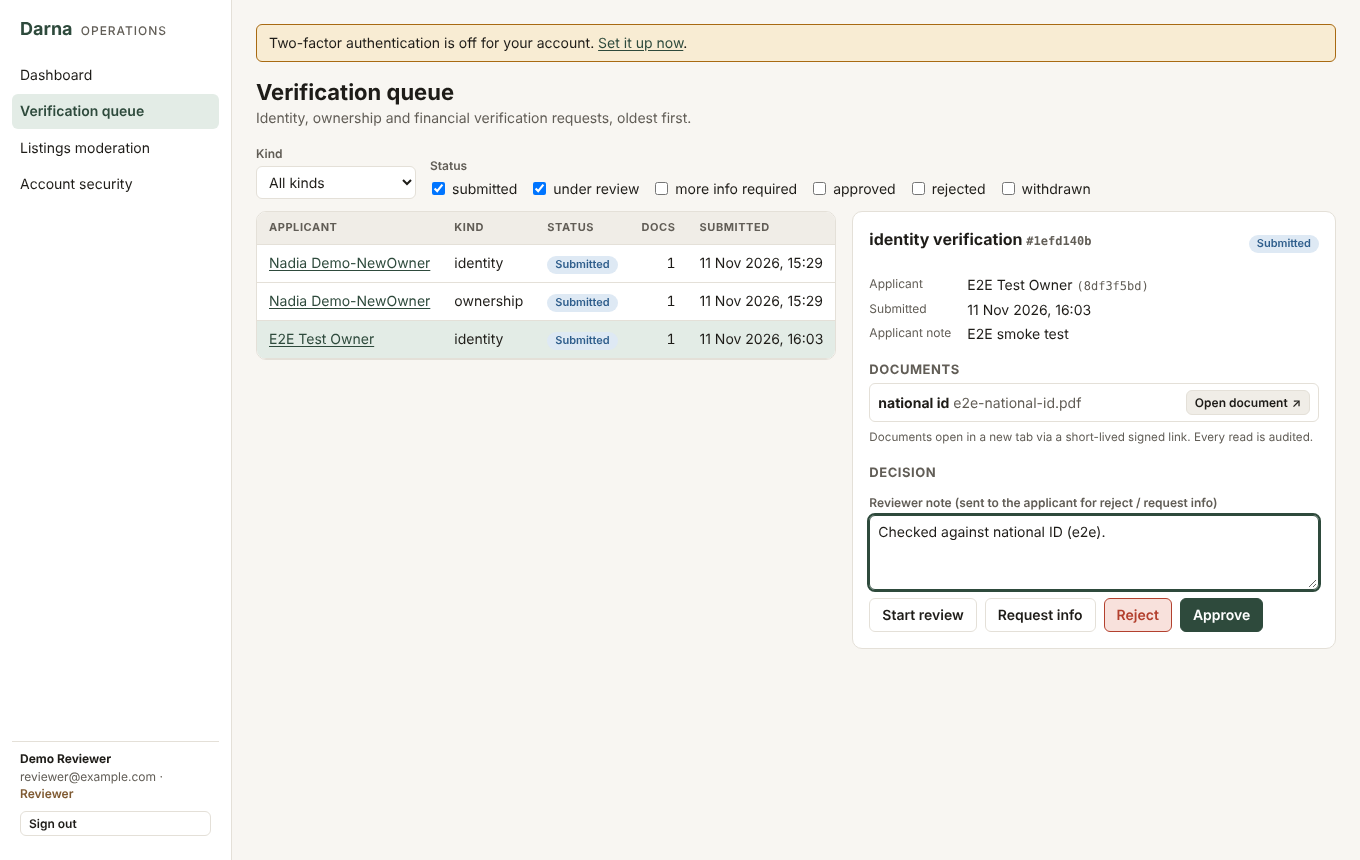
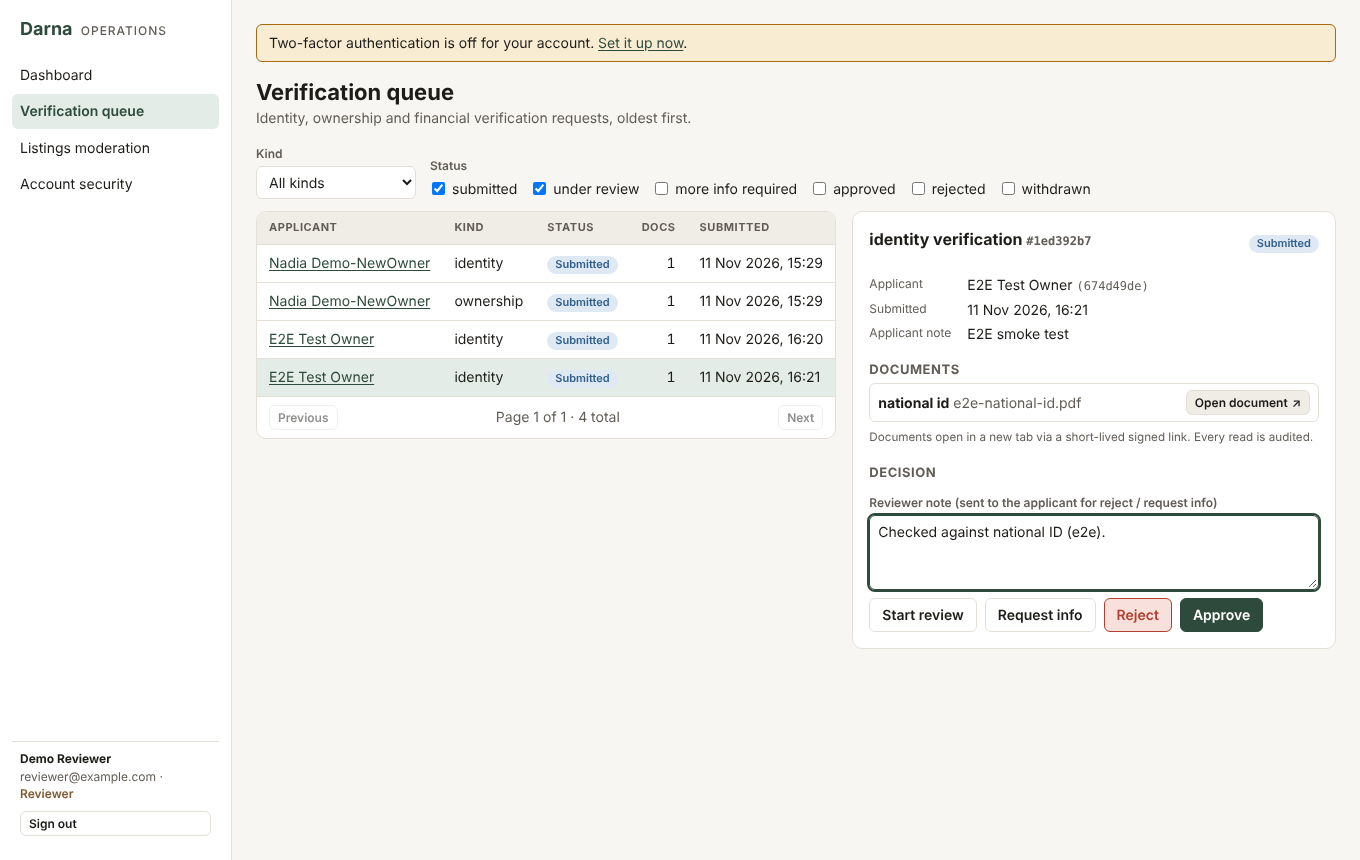
Paginate the verification queue and batch its document/claim loads
GET /admin/verifications now returns Page[QueueItem] (oldest first, page
and page_size up to 100) and loads documents and claims in two queries
instead of two per item. The admin queue gets a pager that resets on
filter changes and steps back when the last item on a page is decided.

Claude-Session: https://claude.ai/code/session_01EGgGCG2r9sSzy7oEG29fDS

diff --git a/apps/admin/src/test/verification.test.tsx b/apps/admin/src/test/verification.test.tsx
@@ -89,10 +89,32 @@ describe("VerificationPanel", () => {
   });
 });
 
+const pageOf = <T,>(items: T[], total = items.length, page = 1) => ({ items, total, page, page_size: 25 });
+
 describe("VerificationQueue (mocked API)", () => {
+  it("pages through the queue and resets to page 1 when filters change", async () => {
+    const api: Partial<AdminApi> = {
+      verifications: vi.fn().mockImplementation(async (q: { page?: number }) =>
+        pageOf([{ ...identityItem, id: `vr-${q.page}`, user_name: `Applicant page ${q.page}` }], 30, q.page)),
+    };
+    render(
+      <ToastProvider>
+        <MockAuthProvider me={reviewer} api={api}>
+          <VerificationQueue />
+        </MockAuthProvider>
+      </ToastProvider>,
+    );
+    expect(await screen.findByRole("button", { name: "Applicant page 1" })).toBeInTheDocument();
+    await userEvent.click(screen.getByRole("button", { name: /next/i }));
+    expect(await screen.findByRole("button", { name: "Applicant page 2" })).toBeInTheDocument();
+    expect(api.verifications).toHaveBeenLastCalledWith(expect.objectContaining({ page: 2, page_size: 25 }));
+    await userEvent.selectOptions(screen.getByLabelText("Kind"), "ownership");
+    await waitFor(() => expect(api.verifications).toHaveBeenLastCalledWith(expect.objectContaining({ kind: "ownership", page: 1 })));
+  });
+
   it("loads the queue, starts a review and refreshes", async () => {
     const api: Partial<AdminApi> = {
-      verifications: vi.fn().mockResolvedValueOnce([identityItem]).mockResolvedValueOnce([{ ...identityItem, status: "under_review" }]),
+      verifications: vi.fn().mockResolvedValueOnce(pageOf([identityItem])).mockResolvedValueOnce(pageOf([{ ...identityItem, status: "under_review" }])),
       decide: vi.fn().mockResolvedValue({ ok: true }),
     };
     render(
@@ -112,7 +134,7 @@ describe("VerificationQueue (mocked API)", () => {
   });
 
   it("shows the empty state and API errors", async () => {
-    const api: Partial<AdminApi> = { verifications: vi.fn().mockResolvedValue([]) };
+    const api: Partial<AdminApi> = { verifications: vi.fn().mockResolvedValue(pageOf([])) };
     render(
       <ToastProvider>
         <MockAuthProvider me={reviewer} api={api}>
@@ -126,7 +148,7 @@ describe("VerificationQueue (mocked API)", () => {
   it("surfaces decision failures with the API error code", async () => {
     const { ApiError } = await import("@darna/api-client");
     const api: Partial<AdminApi> = {
-      verifications: vi.fn().mockResolvedValue([identityItem]),
+      verifications: vi.fn().mockResolvedValue(pageOf([identityItem])),
       decide: vi.fn().mockRejectedValue(new ApiError(409, "self_review", "You cannot review your own submission")),
     };
     render(

diff --git a/apps/admin/src/components/VerificationQueue.tsx b/apps/admin/src/components/VerificationQueue.tsx
@@ -1,7 +1,7 @@
 "use client";
 
-import { useState } from "react";
-import { Badge, DataState, fmtDate, PageHeader } from "./ui";
+import { useEffect, useState } from "react";
+import { Badge, DataState, fmtDate, PageHeader, Pager } from "./ui";
 import { VerificationPanel } from "./VerificationPanel";
 import type { DecisionIn, VerificationKind, VerificationStatus } from "@/lib/adminApi";
 import { useApi } from "@/lib/auth";
@@ -9,6 +9,7 @@ import { useToast } from "@/lib/toast";
 import { useAsync } from "@/lib/useAsync";
 
 const KINDS: VerificationKind[] = ["identity", "ownership", "financial"];
+const PAGE_SIZE = 25;
 const STATUSES: VerificationStatus[] = ["submitted", "under_review", "more_info_required", "approved", "rejected", "withdrawn"];
 
 export function VerificationQueue() {
@@ -17,8 +18,19 @@ export function VerificationQueue() {
   const [kind, setKind] = useState<VerificationKind | "">("");
   const [statuses, setStatuses] = useState<VerificationStatus[]>(["submitted", "under_review"]);
   const [selectedId, setSelectedId] = useState<string | null>(null);
-  const q = useAsync(() => api.verifications({ status: statuses, kind: kind || undefined }), [kind, statuses.join(",")]);
-  const items = q.data ?? [];
+  const [page, setPage] = useState(1);
+  const q = useAsync(
+    () => api.verifications({ status: statuses, kind: kind || undefined, page, page_size: PAGE_SIZE }),
+    [kind, statuses.join(","), page],
+  );
+  const items = q.data?.items ?? [];
+  const total = q.data?.total ?? 0;
+  // New filters start from the first page.
+  useEffect(() => setPage(1), [kind, statuses.join(",")]);
+  // Deciding the last item on the last page leaves it empty: step back.
+  useEffect(() => {
+    if (q.data && page > 1 && q.data.items.length === 0 && total > 0) setPage(Math.ceil(total / PAGE_SIZE));
+  }, [q.data, page, total]);
   const selected = items.find((i) => i.id === selectedId) ?? null;
 
   async function decide(id: string, body: DecisionIn) {
@@ -111,6 +123,7 @@ export function VerificationQueue() {
               </tbody>
             </table>
           </DataState>
+          {q.data && <Pager page={page} pageSize={PAGE_SIZE} total={total} onPage={setPage} />}
         </div>
         <div>
           {selected ? (

diff --git a/packages/api-client/src/schema.ts b/packages/api-client/src/schema.ts
@@ -304,7 +304,10 @@ export interface paths {
             path?: never;
             cookie?: never;
         };
-        /** Verification Queue */
+        /**
+         * Verification Queue
+         * @description Oldest first (FIFO), paginated; documents and claims are loaded in two batched queries.
+         */
         get: operations["verification_queue_admin_verifications_get"];
         put?: never;
         post?: never;
@@ -3086,6 +3089,17 @@ export interface components {
             /** Total */
             total: number;
         };
+        /** Page[QueueItem] */
+        Page_QueueItem_: {
+            /** Items */
+            items: components["schemas"]["QueueItem"][];
+            /** Page */
+            page: number;
+            /** Page Size */
+            page_size: number;
+            /** Total */
+            total: number;
+        };
         /**
          * PartyRole
          * @enum {string}
@@ -4733,6 +4747,8 @@ export interface operations {
             query?: {
                 status?: components["schemas"]["VerificationStatus"][];
                 kind?: components["schemas"]["VerificationKind"] | null;
+                page?: number;
+                page_size?: number;
             };
             header?: never;
             path?: never;
@@ -4746,7 +4762,7 @@ export interface operations {
                     [name: string]: unknown;
                 };
                 content: {
-                    "application/json": components["schemas"]["QueueItem"][];
+                    "application/json": components["schemas"]["Page_QueueItem_"];
                 };
             };
             /** @description Validation Error */

diff --git a/apps/admin/src/lib/adminApi.ts b/apps/admin/src/lib/adminApi.ts
@@ -37,7 +37,7 @@ export function makeAdminApi(call: Call) {
   return {
     analytics: () => call((c) => c.GET("/admin/analytics")),
 
-    verifications: (query: { status?: VerificationStatus[]; kind?: VerificationKind }) =>
+    verifications: (query: { status?: VerificationStatus[]; kind?: VerificationKind; page?: number; page_size?: number }) =>
       call((c) => c.GET("/admin/verifications", { params: { query } })),
     decide: (id: string, body: DecisionIn) =>
       call((c) => c.POST("/admin/verifications/{vr_id}/decision", { params: { path: { vr_id: id } }, body })),

diff --git a/services/api/app/modules/admin.py b/services/api/app/modules/admin.py
@@ -144,27 +144,37 @@ class DecisionIn(BaseModel):
     supersede_existing: bool = False
 
 
-@router.get("/verifications", response_model=list[QueueItem])
+@router.get("/verifications", response_model=Page[QueueItem])
 def verification_queue(status: list[VS] = Query(default=[VS.submitted, VS.under_review]), kind: VerificationKind | None = None,
+                       page: int = Query(1, ge=1), page_size: int = Query(25, ge=1, le=100),
                        _: User = Depends(require("verification.review")), db: Session = Depends(get_db)):
-    stmt = select(VerificationRequest).options(joinedload(VerificationRequest.user)).where(VerificationRequest.status.in_(status))
+    """Oldest first (FIFO), paginated; documents and claims are loaded in two batched queries."""
+    stmt = select(VerificationRequest).where(VerificationRequest.status.in_(status))
     if kind:
         stmt = stmt.where(VerificationRequest.kind == kind)
+    total = db.scalar(select(func.count()).select_from(stmt.subquery())) or 0
+    rows = db.scalars(stmt.options(joinedload(VerificationRequest.user))
+                      .order_by(VerificationRequest.created_at, VerificationRequest.id)
+                      .offset((page - 1) * page_size).limit(page_size)).all()
+    doc_ids = {uuid.UUID(d) for vr in rows for d in vr.document_ids}
+    docs = {d.id: d for d in db.scalars(select(Document).where(Document.id.in_(doc_ids)))} if doc_ids else {}
+    claim_ids = {vr.claim_id for vr in rows if vr.claim_id}
+    claims = ({c.id: c for c in db.scalars(select(OwnershipClaim).options(joinedload(OwnershipClaim.property))
+                                            .where(OwnershipClaim.id.in_(claim_ids)))} if claim_ids else {})
     out = []
-    for vr in db.scalars(stmt.order_by(VerificationRequest.created_at)).all():
-        docs = db.scalars(select(Document).where(Document.id.in_([uuid.UUID(d) for d in vr.document_ids]))).all()
+    for vr in rows:
         claim = None
-        if vr.claim_id:
-            c = db.scalar(select(OwnershipClaim).options(joinedload(OwnershipClaim.property)).where(OwnershipClaim.id == vr.claim_id))
-            if c:
-                p = c.property
-                claim = QueueClaim(status=c.status, capacity=c.capacity.value, principal_name=c.principal_name,
-                                   authority_scope=c.authority_scope, property_id=p.id, identity_key=p.identity_key,
-                                   property_type=p.property_type.value, area_sqm=str(p.area_sqm))
+        c = claims.get(vr.claim_id) if vr.claim_id else None
+        if c:
+            p = c.property
+            claim = QueueClaim(status=c.status, capacity=c.capacity.value, principal_name=c.principal_name,
+                               authority_scope=c.authority_scope, property_id=p.id, identity_key=p.identity_key,
+                               property_type=p.property_type.value, area_sqm=str(p.area_sqm))
+        vr_docs = [docs[uuid.UUID(d)] for d in vr.document_ids if uuid.UUID(d) in docs]
         out.append(QueueItem(id=vr.id, kind=vr.kind, status=vr.status, user_id=vr.user_id, user_name=vr.user.full_name,
                              claim_id=vr.claim_id, listing_id=vr.listing_id, note=vr.note,
-                             documents=[DocRef.model_validate(d) for d in docs], claim=claim, created_at=vr.created_at))
-    return out
+                             documents=[DocRef.model_validate(d) for d in vr_docs], claim=claim, created_at=vr.created_at))
+    return Page(items=out, total=total, page=page, page_size=page_size)
 
 
 @router.post("/verifications/{vr_id}/decision", response_model=Ok)

diff --git a/services/api/tests/test_documents.py b/services/api/tests/test_documents.py
@@ -55,7 +55,7 @@ def test_identity_verification_flow(make_user, reviewer):
     assert a.post("/verifications/identity", json={"document_ids": [did]}).status_code == 201
     assert a.post("/verifications/identity", json={"document_ids": [did]}).status_code == 409
     assert a.get("/auth/me").json()["verification"]["identity"] == "submitted"
-    vr = reviewer.get("/admin/verifications", params={"kind": "identity"}).json()[0]
+    vr = reviewer.get("/admin/verifications", params={"kind": "identity"}).json()["items"][0]
     r = reviewer.post(f"/admin/verifications/{vr['id']}/decision", json={"decision": "request_info"})
     assert r.status_code == 422
     reviewer.post(f"/admin/verifications/{vr['id']}/decision", json={"decision": "request_info", "note": "Back side missing"})
@@ -67,7 +67,7 @@ def test_identity_verification_flow(make_user, reviewer):
     # Reviewers cannot approve their own submission
     rd = reviewer.upload_doc("national_id")
     reviewer.post("/verifications/identity", json={"document_ids": [rd]})
-    own = next(v for v in reviewer.get("/admin/verifications").json() if v["user_id"] == str(reviewer.id))
+    own = next(v for v in reviewer.get("/admin/verifications").json()["items"] if v["user_id"] == str(reviewer.id))
     r = reviewer.post(f"/admin/verifications/{own['id']}/decision", json={"decision": "approve"})
     assert r.status_code == 409 and r.json()["error"]["code"] == "self_review"
 
@@ -108,9 +108,21 @@ def test_admin_typed_responses_and_filters(make_user, admin, project, reviewer):
     admin.post(f"/admin/disputes/{d['id']}/resolve", json={"outcome": "dismissed", "note": "No evidence"})
     assert admin.get("/admin/disputes").json() == []
     assert len(admin.get("/admin/disputes", params={"status": "all"}).json()) == 1
-    q = reviewer.get("/admin/verifications", params={"status": ["submitted", "under_review", "approved", "rejected"]}).json()
+    q = reviewer.get("/admin/verifications", params={"status": ["submitted", "under_review", "approved", "rejected"]}).json()["items"]
     assert any(i["claim"] and i["claim"]["identity_key"] for i in q)
     assert admin.post("/admin/maintenance/expire-offers").json() == {"expired": 0}
     u = make_user(name="Reporter Person")
     u.post("/support/cases", json={"category": "other", "description": "Something needs attention"})
     assert admin.get("/admin/support").json()[0]["reporter_name"] == "Reporter Person"
+
+
+def test_verification_queue_is_paginated_oldest_first(make_user, reviewer):
+    users = [make_user() for _ in range(3)]
+    for u in users:
+        assert u.post("/verifications/identity", json={"document_ids": [u.upload_doc("national_id")]}).status_code == 201
+    p1 = reviewer.get("/admin/verifications", params={"kind": "identity", "page_size": 2}).json()
+    p2 = reviewer.get("/admin/verifications", params={"kind": "identity", "page_size": 2, "page": 2}).json()
+    assert p1["total"] == p2["total"] == 3 and (p1["page"], p2["page"]) == (1, 2)
+    assert [i["user_id"] for i in p1["items"] + p2["items"]] == [str(u.id) for u in users]
+    assert all(len(i["documents"]) == 1 for i in p1["items"] + p2["items"])
+    assert reviewer.get("/admin/verifications", params={"page_size": 101}).status_code == 422

diff --git a/services/api/tests/test_properties.py b/services/api/tests/test_properties.py
@@ -24,7 +24,7 @@ def test_register_property_creates_claim_and_verification(make_user, project, re
     body = r.json()
     assert body["claim"]["status"] == "submitted"
     assert owner.get("/auth/me").json()["verification"]["pending_ownership_claims"] == 1
-    q = reviewer.get("/admin/verifications", params={"kind": "ownership"}).json()
+    q = reviewer.get("/admin/verifications", params={"kind": "ownership"}).json()["items"]
     assert len(q) == 1 and q[0]["claim"]["identity_key"].endswith("|7|45|12")
 
 
@@ -126,7 +126,7 @@ def test_competing_claim_opens_dispute_and_resolution(make_user, project, review
     # Duplicate active claim by the same user is blocked
     assert challenger.post(f"/properties/{pid}/claims", json={"document_ids": [doc]}).status_code == 409
     # Reviewer cannot simply approve a disputed claim
-    q = reviewer.get("/admin/verifications", params={"kind": "ownership"}).json()
+    q = reviewer.get("/admin/verifications", params={"kind": "ownership"}).json()["items"]
     vr = next(v for v in q if v["claim_id"] == r.json()["id"])
     res = reviewer.post(f"/admin/verifications/{vr['id']}/decision", json={"decision": "approve", "note": "x"})
     assert res.status_code == 409 and res.json()["error"]["code"] == "dispute_open"

diff --git a/services/api/tests/test_listings.py b/services/api/tests/test_listings.py
@@ -227,7 +227,7 @@ def test_financial_verification_upgrades_provenance_and_edit_resets(make_user, p
     doc = owner.upload_doc("developer_statement")
     r = owner.post("/verifications/financial", json={"listing_id": lid, "document_ids": [doc]})
     assert r.status_code == 201
-    vr = next(v for v in reviewer.get("/admin/verifications", params={"kind": "financial"}).json())
+    vr = next(v for v in reviewer.get("/admin/verifications", params={"kind": "financial"}).json()["items"])
     assert reviewer.post(f"/admin/verifications/{vr['id']}/decision", json={"decision": "approve"}).status_code == 200
     pub = client.get(f"/listings/{lid}").json()
     assert pub["financials_verified"] is True

diff --git a/services/api/tests/conftest.py b/services/api/tests/conftest.py
@@ -157,7 +157,7 @@ def register_property(owner: Actor, project, **kw):
 
 
 def approve_pending_claim(reviewer: Actor, claim_id: str):
-    q = reviewer.get("/admin/verifications", params={"kind": "ownership"}).json()
+    q = reviewer.get("/admin/verifications", params={"kind": "ownership"}).json()["items"]
     vr = next(v for v in q if v["claim_id"] == claim_id)
     r = reviewer.post(f"/admin/verifications/{vr['id']}/decision", json={"decision": "approve", "note": "documents match"})
     assert r.status_code == 200, r.text

diff --git a/docs/IMPLEMENTATION_STATUS.md b/docs/IMPLEMENTATION_STATUS.md
@@ -70,7 +70,6 @@ Screenshots: `apps/mobile/docs/screenshots/`, `apps/admin/docs/screenshots/`, `a
 - Media URLs come from `DARNA_PUBLIC_BASE_URL`; the mobile app rewrites `localhost` for emulators. Set the env var to a reachable host for device testing.
 - Validation details carry a `type` code (business rules use `rule_error`) and `ctx` limits; the mobile app localizes them. Types without a translation fall back to the English message (English UI) or a generic message (Arabic UI). Admin and web still show the English text.
 - Rate limiting is per-process (in-memory, with eviction of inactive keys). The worker must be scheduled externally (cron / platform scheduler) or run with `--interval`.
-- Verification queue has no pagination.
 - The dev database used during this session contains extra test records from agent E2E runs; reset with `python seed.py --reset`.
 
 ## Next implementation tasks (priority order) — see `docs/BACKLOG.md`
